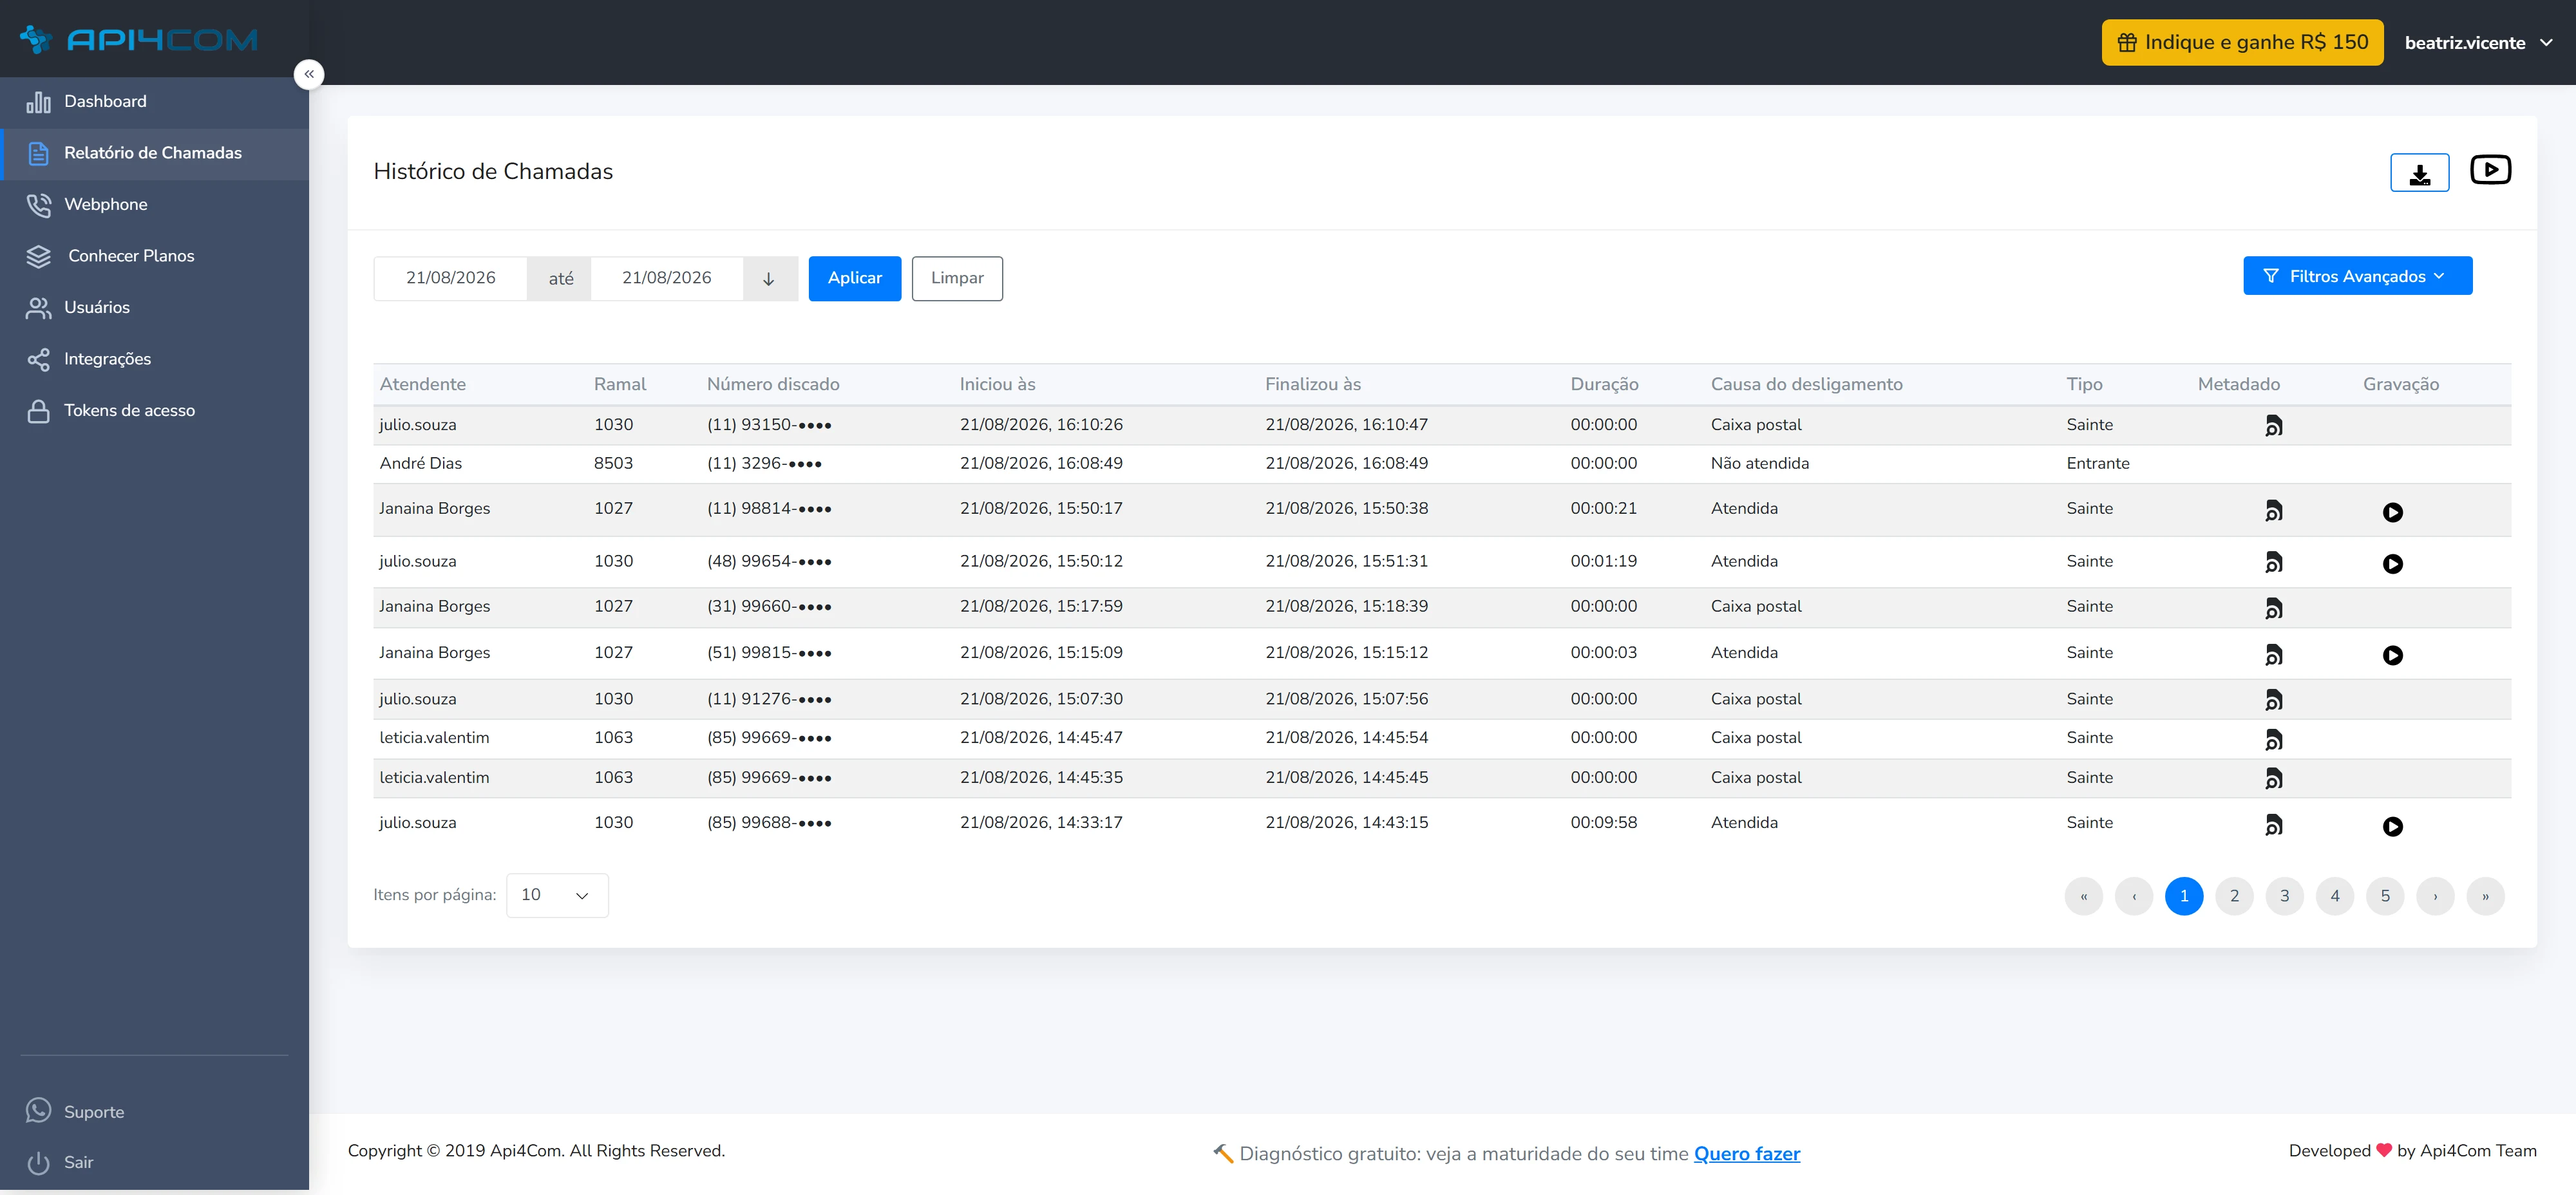
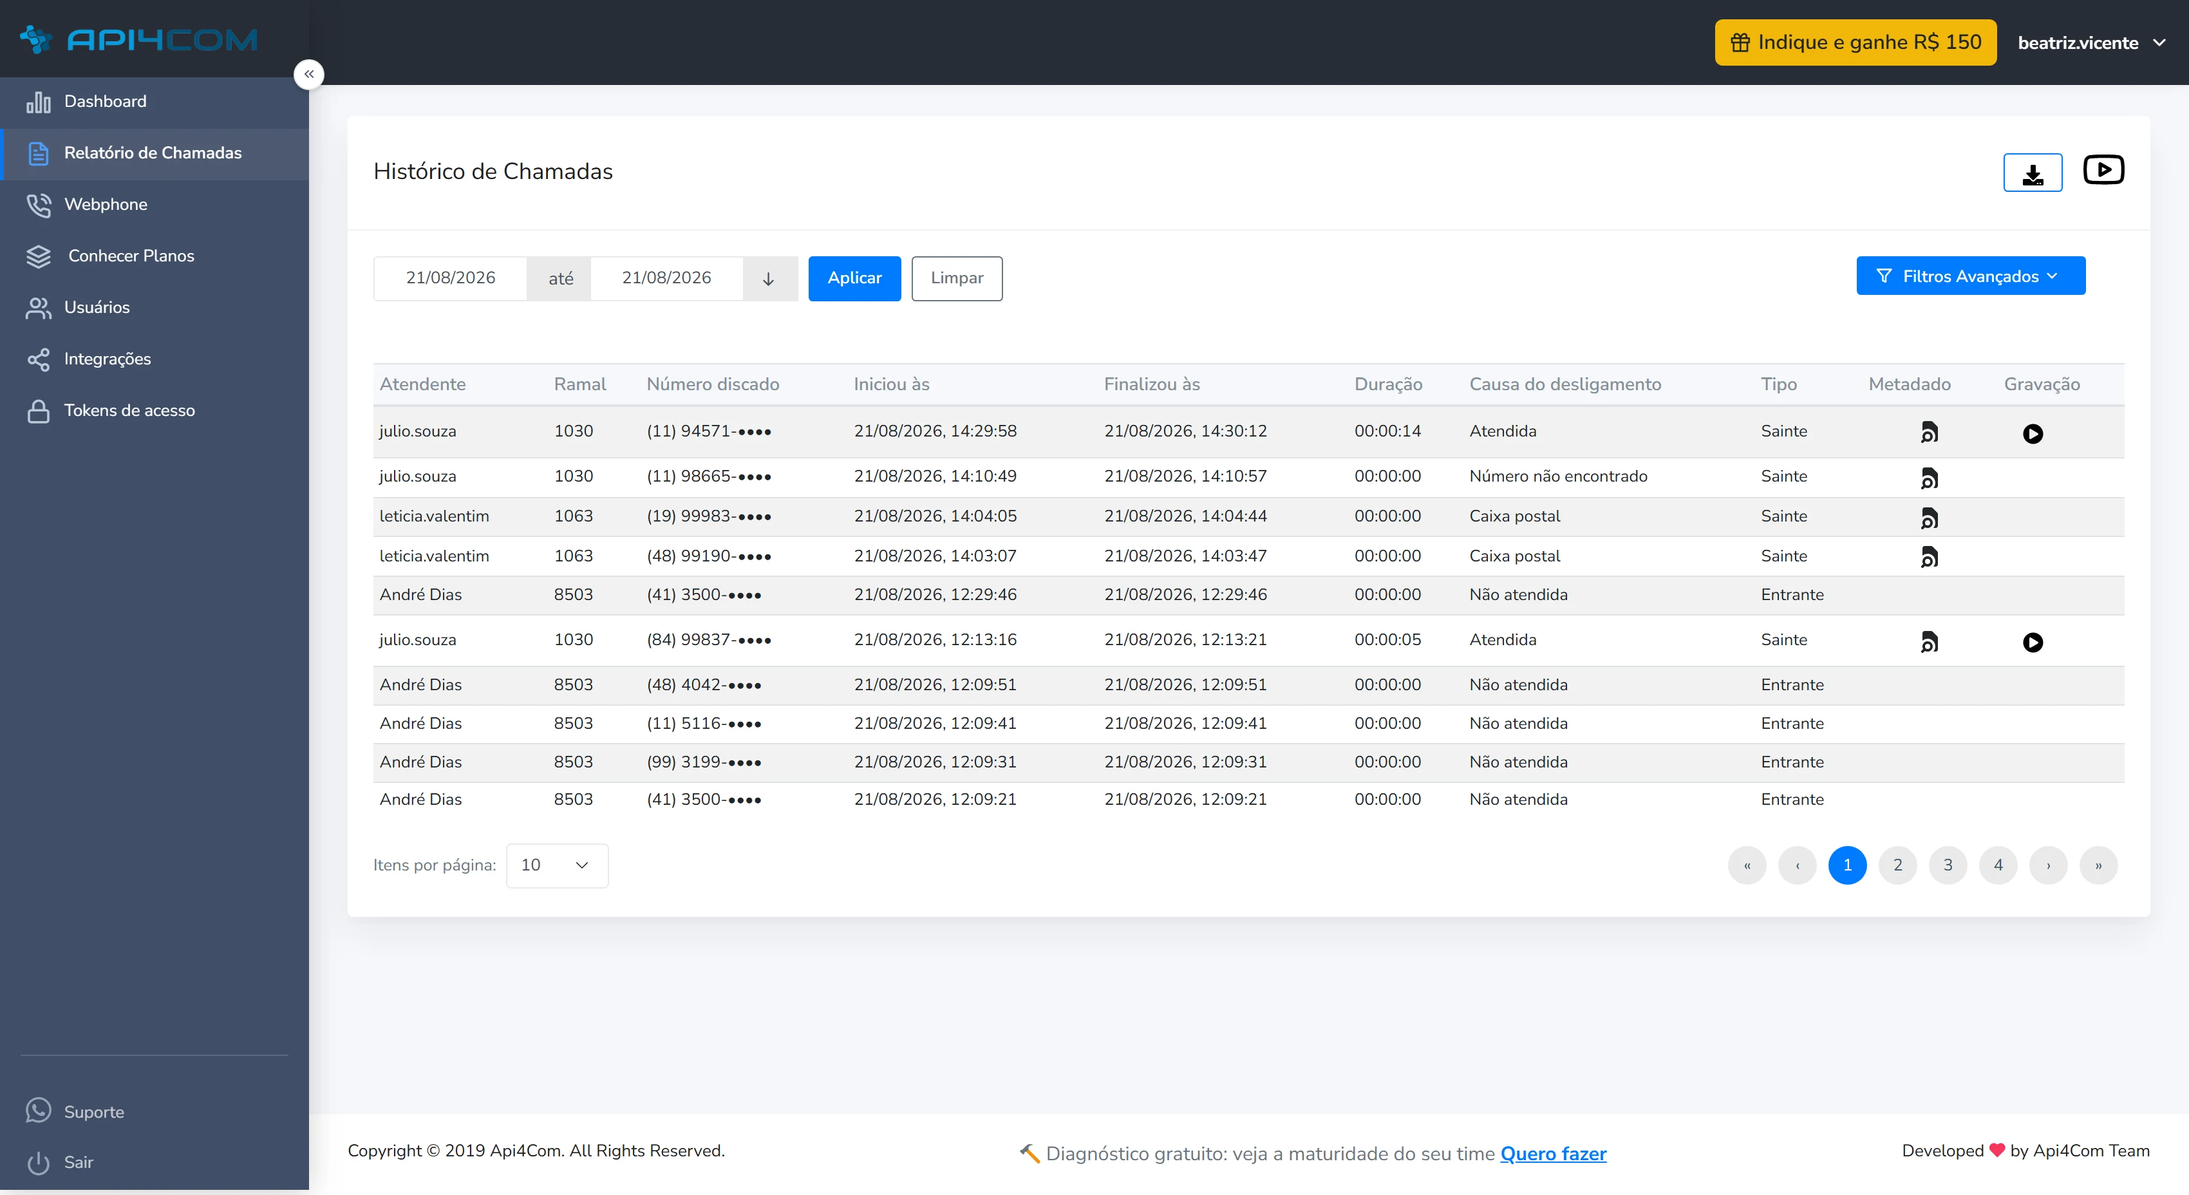
Separa o resumo da IA num release proprio (TEL-2146)
O release de Relatorios volta ao estado da manha: sem IA no texto, seis
passos no comparador e as imagens de 1700px da conta sem o recurso.

A IA ganha release proprio, com comparador de tres passos focado so
nela: onde aparece na pagina, as duas colunas novas e o resumo aberto
dentro da linha. As imagens sao de 2000px, capturadas numa conta com IA
ativa, e o texto do painel esta borrado — e conversa real de cliente e
traz avaliacao de desempenho de pessoa identificavel.

diff --git a/releases/21-08-2026-nova-tela-de-relatorios/interno.md b/releases/21-08-2026-nova-tela-de-relatorios/interno.md
@@ -1,38 +1,32 @@
 ## Em uma frase
-O resumo da IA sai de dentro do CRM e chega à tela de Relatórios.
+A tela de Relatórios agora responde quem atende, e não só quais chamadas houve.
 
 ## Por que importa
-O resumo é o entregável da IA — é por ele que o gestor não precisa ouvir a ligação inteira. Só que, até ontem, o único lugar onde ele existia era dentro do CRM, colado no negócio.
+A taxa de atendimento é o que a API4COM vende — e até ontem ela não estava em lugar nenhum da tela. Para saber quem no time atende e quem deixa tocar, o cliente exportava o histórico bruto e montava a conta no Excel.
 
-- **Quem não integrou CRM pagava pela IA e não tinha onde ler.** O resumo era gerado, cobrado, e ficava invisível para o cliente.
-- **Quem integrou lia uma ligação por vez.** Para comparar cinco atendimentos do dia, eram cinco negócios abertos, um a um.
-- **E a taxa de atendimento não estava em tela nenhuma.** Para saber quem atende e quem deixa tocar, o cliente exportava o histórico bruto e montava a conta no Excel.
+- **A pergunta que o cliente faz não era a que a tela respondia.** Ele não quer a lista de ligações; quer saber quem está produzindo. A tela entregava linha por linha e deixava a conclusão por conta dele.
+- **E era a última tela no visual antigo.** O dashboard já tinha o novo padrão. Relatórios continuava sendo "Histórico de Chamadas", num card de outra época — e é uma das telas mais abertas do portal.
+- **Filtrar era um ritual.** Escolher o período, abrir "Filtros Avançados", preencher, clicar em Aplicar. Toda vez.
 
-Resultado: o que o cliente paga na IA passa a ser visível onde ele já olha as ligações.
+Resultado: a taxa de atendimento vira coluna na tela, não exercício de planilha.
 
 ## As mudanças
-1. **Resumo gerencial** e **Análise qualitativa** viram colunas do relatório de Chamadas. Cada linha tem um botão **Ver**; o texto abre ali mesmo, sem sair da tabela.
-   - Abrir um dos dois já traz o outro — é uma consulta só.
-   - Dá para **filtrar primeiro e ler depois**: só as não atendidas, só as de um usuário, só as acima de 3 minutos.
-2. **Novo relatório de Usuários**, no seletor ao lado de Chamadas — uma linha por pessoa, com total de chamadas, atendidas, taxa de atendimento, contatos únicos, rediscagem, tempo total e tempo médio.
+1. **Novo relatório de Usuários**, no seletor ao lado de Chamadas — uma linha por pessoa, com total de chamadas, atendidas, taxa de atendimento, contatos únicos, rediscagem, tempo total e tempo médio em atendimento.
    - **Contatos únicos** conta números diferentes: ligar 3x para o mesmo cliente conta 1.
    - Tem filtro de **Status** (Ativo, Pendente, Inativo) próprio.
-3. **Filtro aplica ao clicar** — saíram os botões "Aplicar" e "Limpar", e os "Filtros Avançados" deixaram de ficar escondidos atrás de um botão. Cada filtro ativo vira uma etiqueta com ✕.
-4. **Engrenagem de colunas** em cada relatório: o cliente escolhe o que aparece, e o CSV sai com exatamente essas colunas.
-5. **Ordenação por coluna** direto no cabeçalho da tabela, nos dois relatórios.
-6. **"Causa do desligamento" virou "Motivo do desligamento"**, "Atendente" virou "Usuário", e o menu lateral virou **"Relatórios"** (era "Relatório de Chamadas").
+2. **Filtro aplica ao clicar** — saíram os botões "Aplicar" e "Limpar", e os "Filtros Avançados" deixaram de ficar escondidos atrás de um botão. Cada filtro ativo vira uma etiqueta com ✕ para remover.
+3. **Engrenagem de colunas** em cada relatório: o cliente escolhe o que aparece na tela, e o CSV sai com exatamente essas colunas.
+4. **Ordenação por coluna** direto no cabeçalho da tabela, nos dois relatórios.
+5. **"Causa do desligamento" virou "Motivo do desligamento"**, "Atendente" virou "Usuário", e o menu lateral virou **"Relatórios"** (era "Relatório de Chamadas").
 
 ## Detalhes importantes
-- **As colunas de IA só existem para conta com IA ativa.** Sem o recurso, não aparecem nem na engrenagem — não há botão morto na tela.
-- **O botão "Ver" aparece em toda linha, mas nem toda ligação tem resumo.** Chamada não atendida, ou anterior à contratação da IA, abre com *"Esta chamada não tem resumo gerado pela IA."* Não é erro.
-- **O CSV de Chamadas não leva as colunas de IA.** O texto é buscado ao clicar, linha a linha; no arquivo, quase toda linha sairia vazia.
-- **O filtro de período tem teto de 30 dias na tela**, e a exportação recusa acima de um mês corrido. Quem puxava três meses de uma vez vai esbarrar nisso.
-- **Busca interrompida no meio não exporta.** Antes, um erro no meio do carregamento gerava arquivo truncado sem aviso.
+- **O filtro de período agora tem teto de 30 dias na tela** — e a exportação recusa acima de um mês corrido. Quem puxava três meses de uma vez vai esbarrar nisso: oriente a quebrar em partes.
+- **Busca interrompida no meio não exporta.** Antes, um erro no meio do carregamento deixava meio relatório na tela e gerava um arquivo truncado sem aviso nenhum.
 - **Exportar sem nenhuma coluna marcada não baixa mais o catálogo inteiro** — a tela pede para marcar ao menos uma.
 - **A conta continua sendo feita no backend.** A tela só mostra.
 
 ## O que muda no dia a dia
-- **Pro Comercial:** é o argumento da IA virando demonstração. Abre a tela, filtra as ligações de ontem, clica em Ver — o cliente lê o resumo sem CRM nenhum no meio.
-- **Pro CS:** no onboarding de quem contratou IA, mostre essa tela antes de falar de integração. O valor aparece no primeiro acesso, não depois de conectar o CRM.
-- **Pro Suporte:** *"cliquei em Ver e não veio resumo"* — confira se a chamada foi atendida e se é posterior à contratação da IA. *"meu relatório não aceita o período"* — é o teto de 30 dias.
+- **Pro CS:** é a tela para abrir na reunião de acompanhamento. A taxa de atendimento por pessoa é o número da conversa.
+- **Pro Comercial:** dá para mostrar em uma tela o que a bina inteligente faz pelo cliente — sem exportar nada.
+- **Pro Suporte:** *"meu relatório não aceita o período"* — é o teto de 30 dias. *"a tela mudou de lugar"* — o menu virou "Relatórios", mesma posição.
 - **Pro cliente:** nenhum comunicado. Ele encontra a tela nova no próximo acesso a Relatórios.

diff --git a/releases/21-08-2026-resumo-de-ia-no-relatorio-de-chamadas/interno.md b/releases/21-08-2026-resumo-de-ia-no-relatorio-de-chamadas/interno.md
@@ -1,0 +1,36 @@
+## Em uma frase
+O resumo da IA sai de dentro do CRM e passa a ser lido na tela de Relatórios.
+
+## Antes → Depois
+| Antes | Depois |
+|-------|--------|
+| O resumo só existia **dentro do CRM**, colado no negócio | Vira coluna no relatório de Chamadas, ao lado da gravação |
+| Sem CRM integrado, o cliente **pagava pela IA e não tinha onde ler** | Lê no portal, com ou sem CRM |
+| Comparar cinco atendimentos = abrir cinco negócios, um a um | Filtra o recorte e abre um resumo atrás do outro na mesma tela |
+
+## Por que importa
+O resumo é o entregável da IA — é por ele que o gestor não precisa ouvir a ligação inteira e o vendedor não precisa digitar o que conversou. Só que ele nascia e ia direto para o CRM.
+
+- **Quem não integrou CRM não via nada.** A IA era gerada, cobrada, e o cliente não tinha uma tela onde ler. Pagava por um entregável invisível.
+- **Quem integrou lia no lugar errado.** O CRM mostra um resumo por negócio. Quem queria olhar o dia do time inteiro abria negócio por negócio.
+- **E o portal já era onde o cliente ia atrás da ligação.** Ele abria Relatórios para ouvir a gravação — e o resumo, que responderia a mesma pergunta mais rápido, não estava ali.
+
+Resultado: o que o cliente paga na IA passa a ser visível onde ele já olha as ligações.
+
+## As mudanças
+1. **Resumo gerencial** e **Análise qualitativa** viram colunas do relatório de Chamadas.
+2. Cada linha tem um botão **Ver**. O texto abre na própria tabela, sem sair da tela e sem abrir modal.
+3. **Abrir um dos dois já traz o outro** — é uma consulta só ao serviço de IA.
+4. Combina com os filtros: dá para **recortar primeiro e ler depois** — só as não atendidas, só as de um usuário, só as acima de 3 minutos.
+
+## Detalhes importantes
+- **Só aparece para conta com IA ativa.** Sem o recurso, as colunas não existem nem na engrenagem — não há botão morto na tela.
+- **O botão "Ver" aparece em toda linha, mas nem toda ligação tem resumo.** Não existe consulta em lote para saber de antemão quais têm, então o botão é sempre oferecido. Chamada não atendida, muito curta, ou anterior à contratação da IA abre com *"Esta chamada não tem resumo gerado pela IA."* **Isso não é erro** — é a resposta correta.
+- **O CSV não leva essas colunas.** O texto é buscado ao clicar, linha a linha; no arquivo, quase toda linha sairia vazia.
+- **O resumo continua indo para o CRM como sempre.** Nada mudou nessa integração; a tela é um segundo lugar de leitura, não uma substituição.
+
+## O que muda no dia a dia
+- **Pro Comercial:** é o argumento da IA virando demonstração ao vivo. Abre a tela, filtra as ligações de ontem, clica em Ver — o cliente lê o resumo sem CRM nenhum no meio.
+- **Pro CS:** no onboarding de quem contratou IA, mostre essa tela **antes** de falar de integração. O valor aparece no primeiro acesso, não depois de conectar o CRM.
+- **Pro Suporte:** *"cliquei em Ver e não veio resumo"* — confira se a chamada foi atendida, se teve duração real e se é posterior à contratação da IA. Só abra ticket se as três responderem sim.
+- **Pro cliente:** nenhum comunicado. Quem tem IA encontra as colunas no próximo acesso a Relatórios.

diff --git a/releases/21-08-2026-nova-tela-de-relatorios/externo.md b/releases/21-08-2026-nova-tela-de-relatorios/externo.md
@@ -1,24 +1,20 @@
 ## O que mudou
-O **resumo da IA** agora fica na tela de Relatórios — antes ele só aparecia dentro do seu CRM.
+Relatórios ganhou visual novo e um segundo relatório: o de **Usuários**, com a taxa de atendimento de cada pessoa do time.
 
 ## Como usar
 1. Abra **Relatórios** no menu lateral (era "Relatório de Chamadas").
-2. Filtre o que quer olhar: período, usuário, duração, motivo do desligamento.
-3. Na linha da ligação, clique em **Ver** na coluna **Resumo gerencial** — o texto abre ali mesmo.
-4. **Análise qualitativa** funciona igual, na coluna ao lado.
-5. Use a **engrenagem** à direita da tabela para escolher quais colunas aparecem.
+2. Escolha o relatório no seletor do topo: **Chamadas** ou **Usuários**.
+3. Ajuste os filtros — período, tipo de chamada, usuário, número discado, motivo do desligamento e duração. Eles aplicam na hora, sem botão.
+4. Clique na **engrenagem** à direita da tabela para escolher quais colunas aparecem.
+5. Exporte pelo ícone de download: o arquivo sai com as mesmas colunas e o mesmo recorte que estão na tela.
 
 ## Também nesta atualização
-- **Relatório de Usuários:** troque o seletor do topo para **Usuários** e veja, por pessoa, total de chamadas, atendidas, **taxa de atendimento**, contatos únicos, rediscagem, tempo total e tempo médio em atendimento.
-- Os filtros **aplicam na hora**, sem botão. Cada um vira uma etiqueta com ✕ para remover.
+- **Relatório de Usuários:** total de chamadas, atendidas, taxa de atendimento, contatos únicos, rediscagem, tempo total e tempo médio em atendimento — por pessoa.
 - Cada coluna **ordena pelo próprio cabeçalho**, nos dois relatórios.
-- Exporte pelo ícone de download: o arquivo sai com as mesmas colunas e o mesmo recorte da tela.
+- Cada filtro aplicado vira uma **etiqueta** no topo, com um ✕ para remover só aquele.
 - **"Causa do desligamento"** passou a se chamar **"Motivo do desligamento"**, e **"Atendente"** virou **"Usuário"**.
 
 ## Bom saber
-- As colunas de IA aparecem para contas com o recurso ativo.
-- Nem toda ligação tem resumo: chamada não atendida, ou anterior à contratação da IA, abre avisando que não há.
-- No arquivo exportado de Chamadas, as colunas de IA não entram — o texto é aberto na tela, chamada por chamada.
 - **Contatos únicos** conta números diferentes: três ligações para o mesmo cliente contam como um contato.
 - O período do filtro vai até **30 dias**. Para um intervalo maior, faça em partes.
 - Para exportar, deixe ao menos uma coluna marcada na engrenagem.

diff --git a/releases/21-08-2026-resumo-de-ia-no-relatorio-de-chamadas/externo.md b/releases/21-08-2026-resumo-de-ia-no-relatorio-de-chamadas/externo.md
@@ -1,0 +1,21 @@
+## O que mudou
+O resumo que a IA gera para cada ligação agora fica na tela de **Relatórios** — antes ele só aparecia dentro do seu CRM.
+
+## Antes → Depois
+| Antes | Depois |
+|-------|--------|
+| O resumo chegava ao seu CRM, um por negócio | Fica também no relatório de Chamadas, linha a linha |
+| Sem CRM conectado, não havia onde lê-lo | Você lê no portal, com ou sem CRM |
+
+## Como usar
+1. Abra **Relatórios** no menu lateral.
+2. Filtre o que quer olhar: período, usuário, duração, motivo do desligamento.
+3. Na linha da ligação, clique em **Ver** na coluna **Resumo gerencial**. O texto abre ali mesmo.
+4. **Análise qualitativa** funciona igual, na coluna ao lado.
+
+## Bom saber
+- As colunas aparecem para contas com o recurso de IA ativo.
+- **Nem toda ligação tem resumo.** Chamada não atendida, muito curta ou anterior à contratação da IA abre avisando que não há — é a resposta esperada, não uma falha.
+- Abrir um dos dois já carrega o outro: alternar entre resumo e análise é imediato.
+- No arquivo exportado, essas colunas não entram — o texto é feito para ser lido na tela, chamada por chamada.
+- O resumo continua sendo enviado ao seu CRM normalmente. A tela é um lugar a mais para ler, não uma troca.
